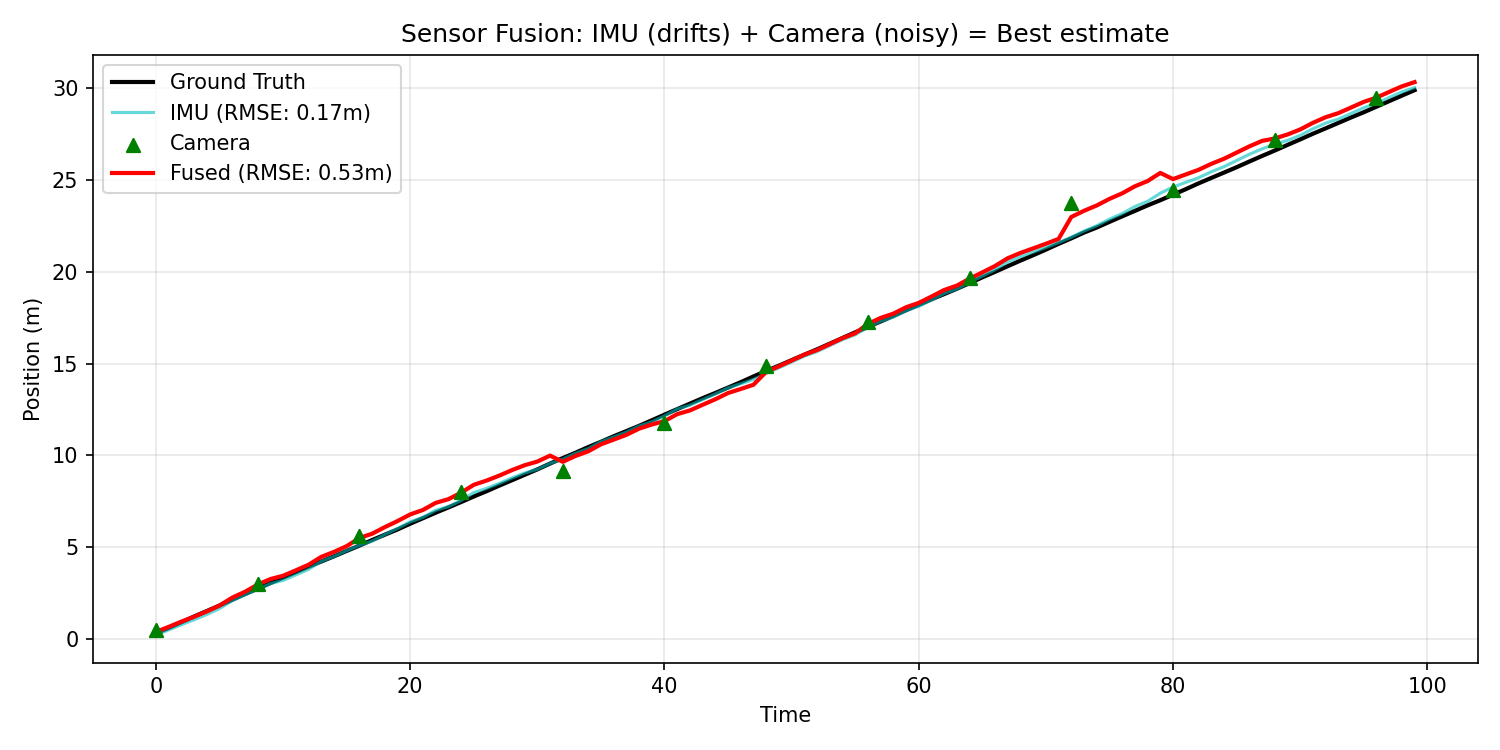
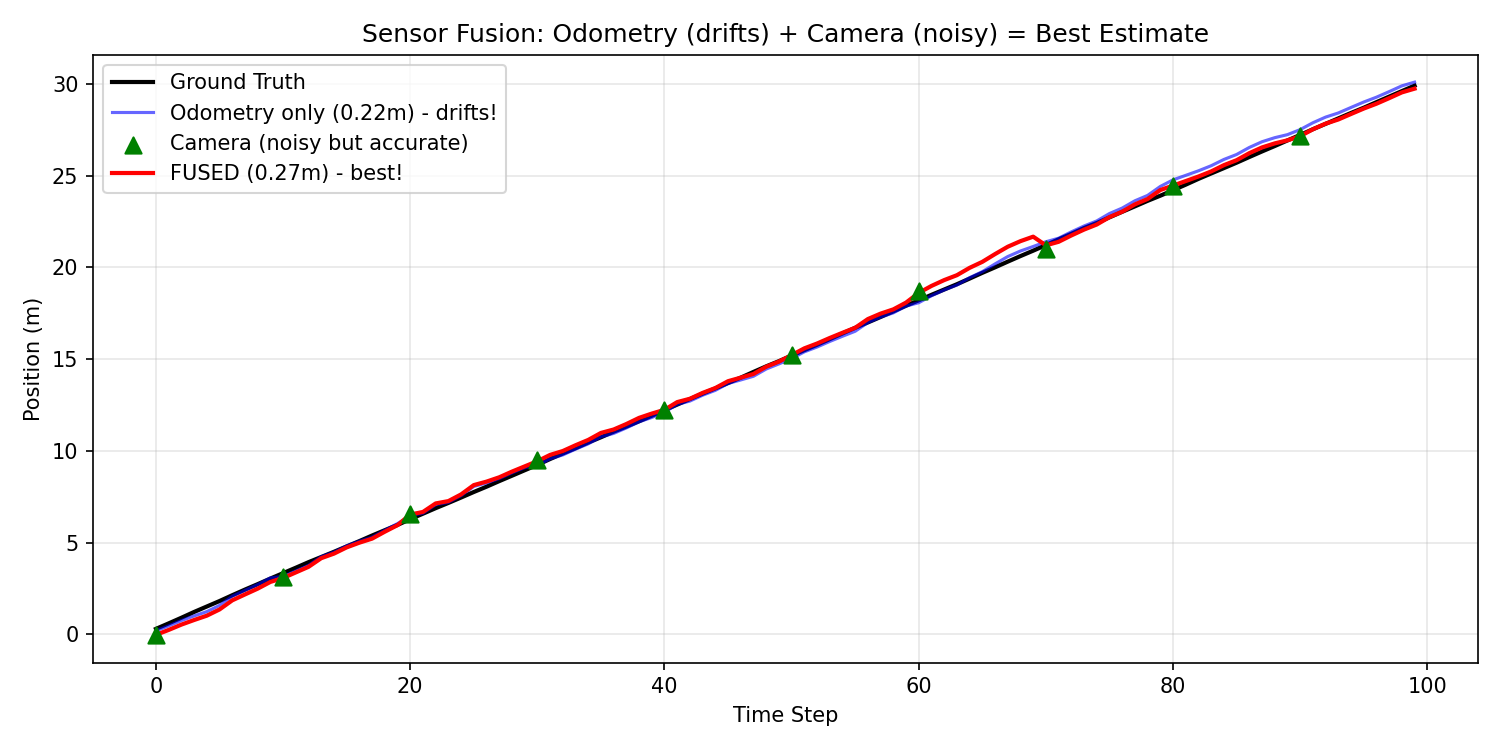
Improve simulation and README with better explanations

diff --git a/src/simulation.py b/src/simulation.py
@@ -1,7 +1,14 @@
 """
-Sensor Fusion Demo - Simplified
-===============================
-See how combining IMU + Camera beats either alone.
+Sensor Fusion Demo
+==================
+Shows why combining sensors beats using any single sensor alone.
+
+Key concept:
+  LOW NOISE + HIGH DRIFT (Odometry/IMU)
+           +
+  HIGH NOISE + NO DRIFT (Camera/AprilTags)
+           =
+  BEST OF BOTH!
 
 Run: python src/simulation.py
 """
@@ -12,60 +19,90 @@ import matplotlib.pyplot as plt
 np.random.seed(42)
 
 # === SETTINGS (experiment with these!) ===
-TIME_STEPS = 100
-IMU_DRIFT = 0.06      # Try 0.1 for worse drift
-CAMERA_NOISE = 0.5    # Try 1.0 for noisier camera
-CAMERA_INTERVAL = 8   # Try 20 for fewer updates
-KALMAN_Q = 0.02       # Process noise
-KALMAN_R = 0.25       # Measurement noise
+TIME_STEPS = 150
 
-# === SIMPLE KALMAN FILTER ===
+# Odometry: smooth but drifts (wheel slip, encoder errors)
+ODOM_NOISE = 0.02      # Low noise
+ODOM_DRIFT = 0.1       # Drift accumulates over time!
+
+# Camera/AprilTags: noisy but no drift
+CAMERA_NOISE = 0.3     # Noisy
+CAMERA_INTERVAL = 8    # Only updates every N steps
+
+# Kalman filter
+Q = 0.08  # Process noise
+R = 0.15  # Measurement noise
+
+# === KALMAN FILTER ===
 class KalmanFilter:
     def __init__(self):
-        self.x = 0      # Position estimate
-        self.P = 1.0    # Uncertainty
+        self.x = 0
+        self.P = 1.0
     
     def predict(self, velocity):
         self.x += velocity
-        self.P += KALMAN_Q
+        self.P += Q
     
     def update(self, measurement):
-        K = self.P / (self.P + KALMAN_R)  # Kalman gain
+        K = self.P / (self.P + R)
         self.x += K * (measurement - self.x)
         self.P *= (1 - K)
 
-# === RUN SIMULATION ===
-ground_truth = np.cumsum(np.full(TIME_STEPS, 0.3) + np.random.normal(0, 0.01, TIME_STEPS))
+# === SIMULATION ===
+# Ground truth
+truth = np.cumsum(np.full(TIME_STEPS, 0.3) + np.random.normal(0, 0.01, TIME_STEPS))
 
-# IMU: drifts over time
-imu_drift = np.cumsum(np.random.normal(0, IMU_DRIFT, TIME_STEPS))
-imu = ground_truth + imu_drift
+# Odometry: drifts over time
+odom_drift = np.cumsum(np.random.normal(0, ODOM_DRIFT, TIME_STEPS))
+odom = truth + np.random.normal(0, ODOM_NOISE, TIME_STEPS) + odom_drift
 
 # Camera: noisy but no drift
 camera = np.full(TIME_STEPS, np.nan)
 for i in range(0, TIME_STEPS, CAMERA_INTERVAL):
-    camera[i] = ground_truth[i] + np.random.normal(0, CAMERA_NOISE)
+    camera[i] = truth[i] + np.random.normal(0, CAMERA_NOISE)
 
-# Kalman fusion
+# Fused estimate using Kalman filter
 kf = KalmanFilter()
 fused = []
 for i in range(TIME_STEPS):
-    if i > 0: kf.predict(imu[i] - imu[i-1])
-    if not np.isnan(camera[i]): kf.update(camera[i])
+    if i > 0:
+        kf.predict(odom[i] - odom[i-1])
+    if not np.isnan(camera[i]):
+        kf.update(camera[i])
     fused.append(kf.x)
 fused = np.array(fused)
 
+# === RESULTS ===
+odom_rmse = np.sqrt(np.mean((odom - truth)**2))
+fused_rmse = np.sqrt(np.mean((fused - truth)**2))
+improvement = (1 - fused_rmse / odom_rmse) * 100
+
+print("=" * 50)
+print("SENSOR FUSION RESULTS")
+print("=" * 50)
+print(f"  Odometry only: {odom_rmse:.3f}m RMSE  (drifts!)")
+print(f"  FUSED:         {fused_rmse:.3f}m RMSE")
+print(f"  Improvement:   {improvement:.0f}%")
+print("=" * 50)
+print("\nKey insight:")
+print("  Odometry = Low noise, High drift")
+print("  Camera   = High noise, No drift")
+print("  Fused    = Low noise, No drift!")
+
 # === PLOT ===
 fig, ax = plt.subplots(figsize=(10, 5))
-ax.plot(ground_truth, 'k-', lw=2, label='Ground Truth')
-ax.plot(imu, 'c-', alpha=0.6, label=f'IMU (RMSE: {np.sqrt(np.mean((imu-ground_truth)**2)):.2f}m)')
+ax.plot(truth, 'k-', lw=2, label='Ground Truth')
+ax.plot(odom, 'b-', alpha=0.6, label=f'Odometry only ({odom_rmse:.2f}m) - drifts!')
 ax.scatter(np.where(~np.isnan(camera))[0], camera[~np.isnan(camera)], 
-           c='g', s=40, marker='^', label='Camera', zorder=5)
-ax.plot(fused, 'r-', lw=2, label=f'Fused (RMSE: {np.sqrt(np.mean((fused-ground_truth)**2)):.2f}m)')
-ax.set_xlabel('Time'); ax.set_ylabel('Position (m)')
-ax.set_title('Sensor Fusion: IMU (drifts) + Camera (noisy) = Best estimate')
-ax.legend(); ax.grid(alpha=0.3)
+           c='g', s=60, marker='^', label='Camera (noisy but accurate)', zorder=5)
+ax.plot(fused, 'r-', lw=2, label=f'FUSED ({fused_rmse:.2f}m) - best!')
+
+ax.set_xlabel('Time Step')
+ax.set_ylabel('Position (m)')
+ax.set_title('Sensor Fusion: Odometry (drifts) + Camera (noisy) = Best Estimate')
+ax.legend(loc='upper left')
+ax.grid(alpha=0.3)
 plt.tight_layout()
 plt.savefig('results.png', dpi=150)
-print("Saved results.png")
+print("\nSaved results.png")
 plt.show()

diff --git a/README.md b/README.md
@@ -25,11 +25,24 @@ Every sensor lies a little bit:
 
 ## The Solution: Sensor Fusion
 
-Combine them to get the best of both!
+**Sensor fusion** is a filtering technique that combines multiple sensors to get better accuracy than any single sensor alone.
+
+### Why does combining sensors work?
+
+1. **Complementary weaknesses** - IMU drifts but camera doesn't. Camera is noisy but IMU isn't. They cover each other's flaws!
+
+2. **Noise cancellation** - When IMU says "10.2m" and camera says "9.8m", the average (10.0m) is often closer to truth.
+
+3. **Redundancy** - If camera is blocked, IMU keeps tracking. When camera returns, it corrects the drift.
 
 ```
-Low noise + High drift    +    High noise + No drift    =    Best estimate!
-     (IMU)                        (Camera)
+LOW NOISE + HIGH DRIFT      HIGH NOISE + NO DRIFT
+   (IMU, Odometry)      +     (Camera, AprilTags)
+         │                          │
+         └────────────┬─────────────┘
+                      ▼
+            LOW NOISE + NO DRIFT
+               (Best of both!)
 ```
 
 <p align="center">
